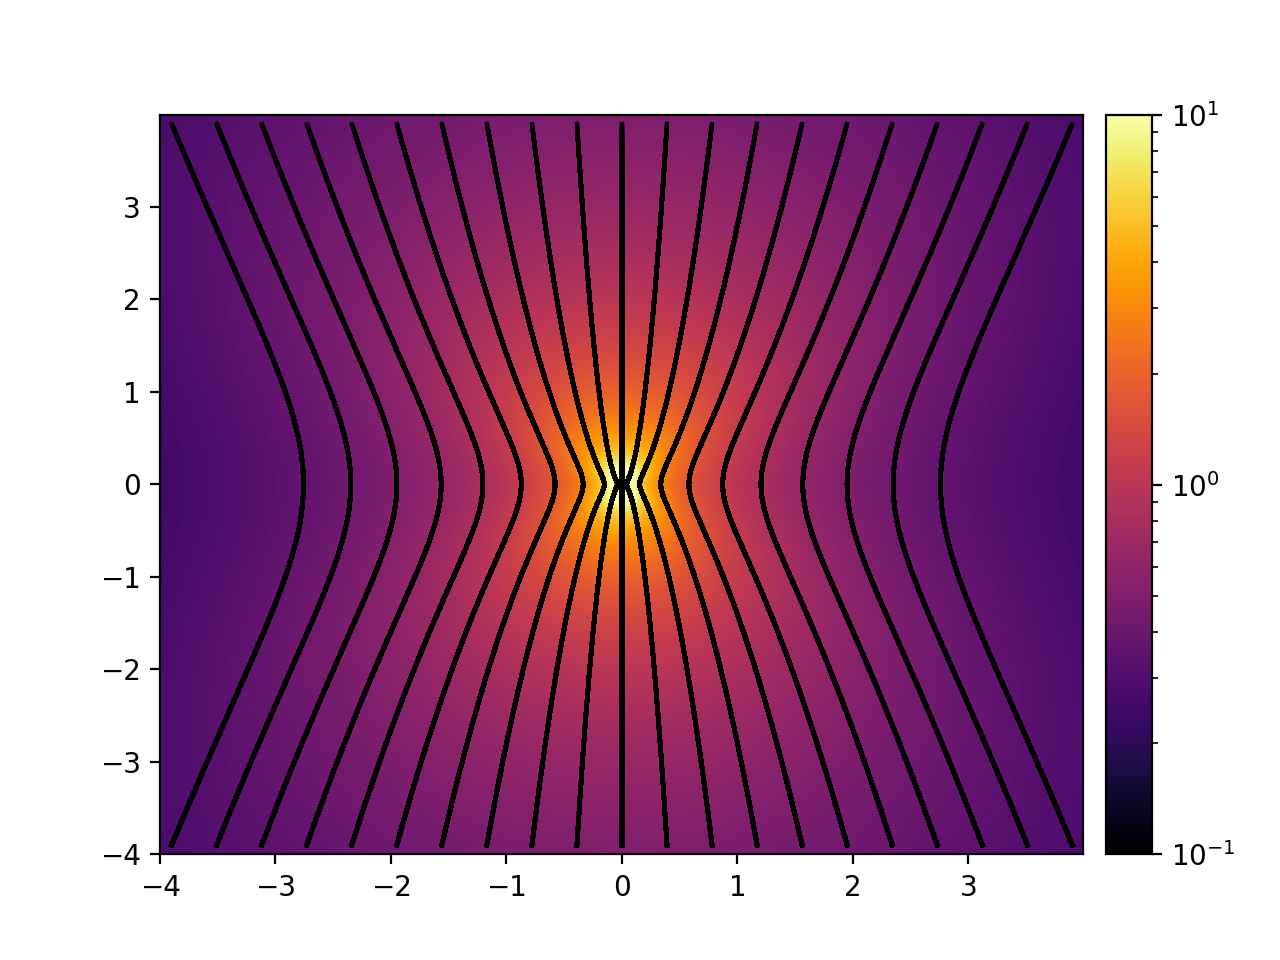
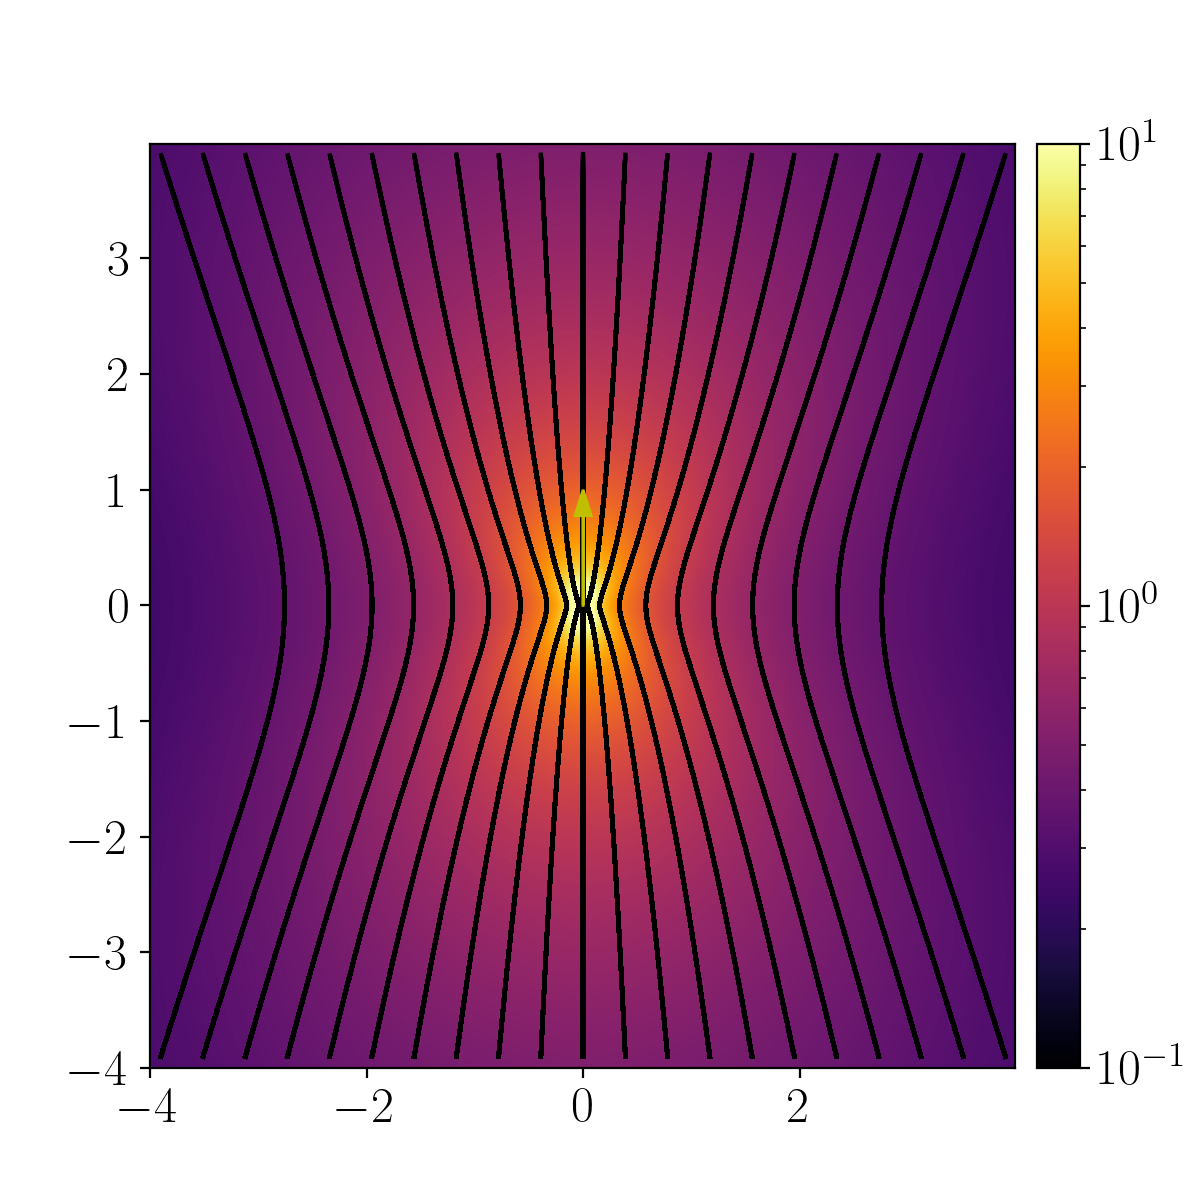
stan wszechświata przed optymalizacją

diff --git a/Obiektowo/Stokes_2D.py b/Obiektowo/Stokes_2D.py
@@ -31,6 +31,7 @@ class Equations2D:
         """
         
         self.flag = function 
+        self.arrows = []
         #słabe rozwiązanie z 'command' --> do przemyślenia
 
         command = True
@@ -52,19 +53,14 @@ class Equations2D:
             self.u = 0.*self.mX
             self.v = 0.*self.mY 
             command = False
+            self.fig, self.ax = plt.subplots()
             
         if command == True:
-            print("Possible functions are plot and export")
+            print("Possible boundary conditions are 'free' and 'wall'.")
         
 
     def stokeslet(self, r0: np.ndarray, F: np.ndarray, coef = 1):
         """
-        The fundamental sullution to the Stokes' equation with one point force applied
-        is called Stokeslet.
-        Point force defined as F = (8ηπr)δ(r)
-        Equation:
-        u(r)  = F(1 + r.r/|r|^2)
-
         Arguments:
             r0: position of the force
             F: direction and magnitude of the force
@@ -78,17 +74,13 @@ class Equations2D:
         u0, v0 =Idf[:,np.newaxis,np.newaxis]/modr+rrTF/modr**3.
         self.u += u0*coef
         self.v += v0*coef
+        self.arrows.append([r0[0], r0[1], F[0], F[1]])
 
         #teraz to trzeba tak przerobic zeby stokeslet nie byl voidem
 
 
     def dipole(self, r0: np.ndarray, F: np.ndarray, d: np.ndarray, coef = 1):
         """
-        The first term of Tylor series for a Stokeslet at r with d beeing distance between two forces
-        in opposite directions.
-        Equation:
-        u(r; F, d) = [(d x F) x r]/r^3 - [(d.F)r]/r^3 + [3(F.r)(d.r)r]/r^5
-        
         Arguments:
             r0: position of the force
             F: direction and magnitude of the force
@@ -106,11 +98,6 @@ class Equations2D:
 
     def stokes_dipole(self, r0: np.ndarray, F: np.ndarray, coef = 1):
         """
-        Dipole with stress tensor that is traceless and axisimetric. Both vector units of d and F are
-        identical. This represents swimming flagellated bacteria.
-        Equation:
-        e = F/|F|
-        u(r; S) = [-1/r^3 + (3(e.r)^2)/r^5]r
         Arguments:
             r0: position of force
             F: direction and magnitude of the force
@@ -139,9 +126,6 @@ class Equations2D:
 
     def rotlet(self, r0: np.ndarray, F: np.ndarray, d: np.ndarray, coef = 1):
         """
-        Antysymmetric part of dipole velocity field.
-        Equation:
-        u(r; F, d) = [(d x F) x r]/r^3
         Arguments:
             r0: position of the force
             F: direction and magnitude of the force
@@ -157,10 +141,6 @@ class Equations2D:
         
     def rotlet_R(self, r0: np.ndarray, R: np.ndarray, coef = 1):
         """
-        Antysymmetric part of dipole velocity field with
-        interpretation of the vector product R = d x F as torque. 
-        Equation:
-        u(r; R) = [R x r]/r^3
         Arguments:
             r0: position of the force
             R: torque acting at the origin
@@ -174,9 +154,6 @@ class Equations2D:
 
     def stresslet(self, r0: np.ndarray, F: np.ndarray, d: np.ndarray, coef = 1):
         """
-        Symmetric part of dipole velocity field.
-        Equation:
-        u(r; F, d) = - [(d.F)r]/r^3 + [3(F.r)(d.r)r]/r^5
         Arguments:
             r0: position of the force
             F: direction and magnitude of the force
@@ -193,11 +170,6 @@ class Equations2D:
 
     def source(self, r0: np.ndarray, M: float, coef=1):
         """
-        Velocity field for a given logarytmic potental:
-        φ(r) = M/(2π) ln(r),
-        where M is the source magnitude.
-        Equation:
-        u(r) = Mr/(4πr^3)
         Arguments:
             r0: position of the force
             M: magnitude of a source
@@ -210,10 +182,6 @@ class Equations2D:
 
     def source_dipole(self, r0: np.ndarray, M: np.ndarray, coef = 1):
         """
-        Velocity field for a source dipole, also called source doublet.
-        It is a source and a sink merging together.
-        Equation:
-        u(r; M) = 1/(4π) [1/r^3 + (3rr)/r^5] M
         Arguments:
             r0: position of the force
             M: strenght of the dipole
@@ -314,7 +282,20 @@ class Equations2D:
         self.dipole(rim, Frel, d, coef=coef1)
         self.source_dipole(rim, -Frel, coef=coef2)
     
-    def streamlines(self, xstart, ystart, mesh = False):
+    def streamlines(self, xstart, ystart, mesh = False, arrows=False):
+
+        plt.rcParams['text.usetex'] = True
+        plt.rcParams.update({
+                            'font.size': 18,
+                            'text.usetex': True,
+                            'text.latex.preamble': r'\usepackage{dsfont}'
+                            })
+
+        if self.flag == "free":
+            fig = plt.figure(figsize=(6,6),facecolor="w")
+        
+        elif self.flag == "wall":
+            fig = plt.figure(figsize=(8,4),facecolor="w")
 
         if mesh == True:
             ax = plt.axes()
@@ -376,15 +357,19 @@ class Equations2D:
                     step >= max_step:
                     break
                 if step >= max_step:
-                    
                     ax.plot(lx, ly, 'r') 
                 else:
                     ax.plot(lx, ly, 'k')
-        
+
+        if arrows == True:
+
+            for i in range(0, len(self.arrows)):
+                ax.arrow( self.arrows[i][0], self.arrows[i][1], self.arrows[i][2], self.arrows[i][3], length_includes_head=True,
+                      head_width=.15, color="y", zorder=5)
+        else:
+            pass
         
         plt.savefig('wallfromanotherplanet.png', dpi=200)
-
-
         print("end now")
         
 
@@ -397,7 +382,7 @@ class Equations2D:
         cax = divider.append_axes("right", size=width, pad=pad)
         return im.axes.figure.colorbar(im, cax=cax, **kwargs)
 
-    def __plot__(self):
+    def __plot__(self, arrows = False, title = 'pass'):
         
         plt.rcParams['text.usetex'] = True
         plt.rcParams.update({
@@ -409,8 +394,10 @@ class Equations2D:
         if self.flag == "free":
             fig = plt.figure(figsize=(6,6),facecolor="w")
         
-        if self.flag == "wall":
+        elif self.flag == "wall":
             fig = plt.figure(figsize=(8,4),facecolor="w")
+        else:
+            print("Error in boundary conditions.")
 
         ax = plt.axes()
         Z = np.sqrt(self.v**2+self.u**2)
@@ -428,24 +415,32 @@ class Equations2D:
                broken_streamlines=False, 
                density=0.38, 
                #z jakiegoś powodu nie działa dla rotlet 0.3
-               color='k'
-               )
+               color='k')
         
         if self.flag == "wall":
             plt.axhline(linewidth=8, y = -0.1, color=(0.5, 0.5, 0.5), linestyle = '-')
+        else:
+            pass
         
         self.add_colorbar(self.image)
-        plt.savefig('wall.png', dpi=200)
+
+        if title != 'pass':
+            plt.savefig(title, dpi=200)
+        else:
+            pass
+
+    
+        if arrows == True:
+
+            for i in range(0, len(self.arrows)):
+                ax.arrow( self.arrows[i][0], self.arrows[i][1], self.arrows[i][2], self.arrows[i][3], length_includes_head=True,
+                      head_width=.15, color="y", zorder=5)
+        else:
+            pass
 
     
     def __show__(self):
         plt.show()
         
-    def save_plot(self, title: str):
-        """
-        Arguments:
-            title: title of the plot
-        """
-        plt.savefig(title + '.pdf', dpi=200)
 
 

diff --git a/Obiektowo/main.py b/Obiektowo/main.py
@@ -15,5 +15,6 @@ plot_review = Stokes_2D.Equations2D(-4, 4, 0.01, "free")
 xstart = np.linspace(-3.9, 3.9, 21)
 ystart = np.linspace(-3.9, -3.9, 21)
 plot_review.stokeslet(r0, f)
-plot_review.streamlines(xstart, ystart, mesh=True)
+plot_review.streamlines(xstart, ystart, mesh=True, arrows=True)
+
 plot_review.__show__() 
